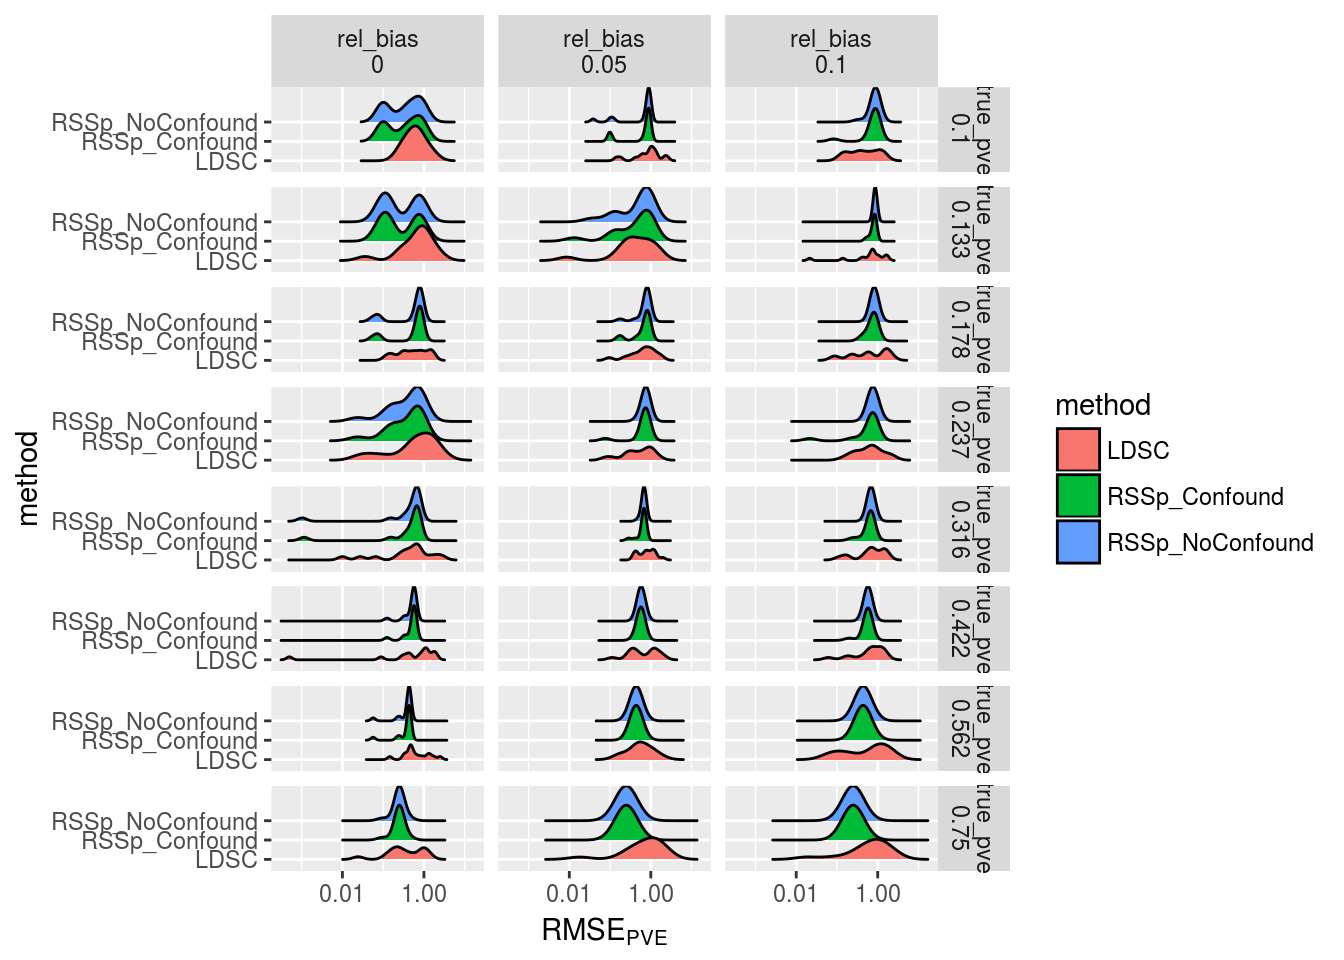
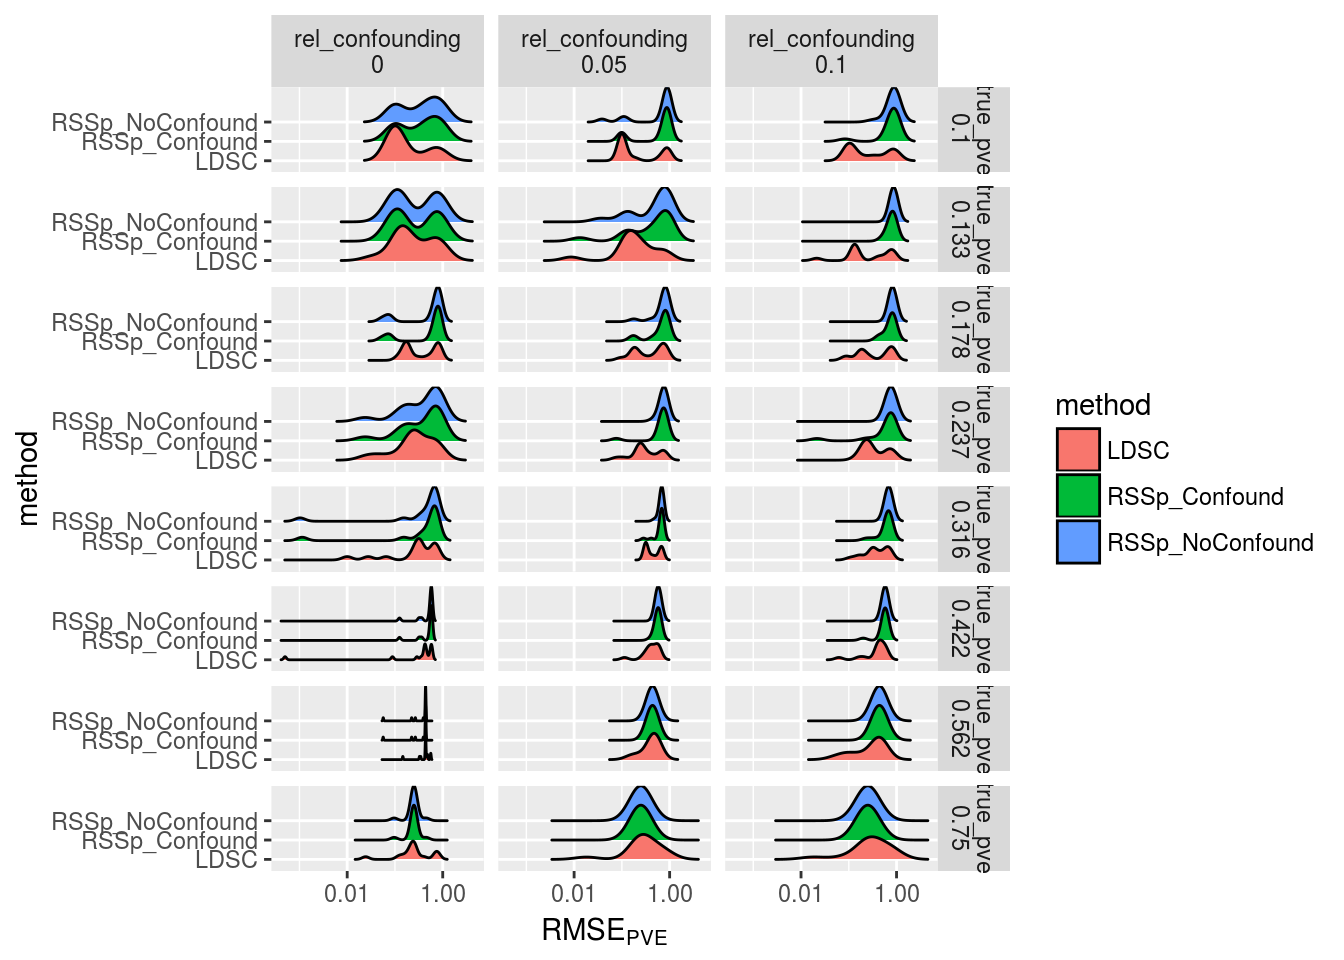
Build site.

diff --git a/docs/RSSp_ldsc_highPVE.html b/docs/RSSp_ldsc_highPVE.html
@@ -13,7 +13,7 @@
 
 <meta name="date" content="2017-11-08" />
 
-<title>RSSp vs ldsc</title>
+<title>RSSp vs ldsc (High PVE)</title>
 
 <script src="site_libs/jquery-1.11.3/jquery.min.js"></script>
 <meta name="viewport" content="width=device-width, initial-scale=1" />
@@ -304,7 +304,7 @@ div.tocify {
 
 
 
-<h1 class="title toc-ignore">RSSp vs ldsc</h1>
+<h1 class="title toc-ignore">RSSp vs ldsc (High PVE)</h1>
 <h4 class="author"><em>Nicholas Knoblauch</em></h4>
 <h4 class="date"><em>2017-11-08</em></h4>
 
@@ -318,18 +318,59 @@ shared across the workflowr files. -->
 <p><strong>Last updated:</strong> 2017-11-28</p>
 <!-- Insert the code version (Git commit SHA1) if Git repository exists and R
  package git2r is installed -->
-<p><strong>Code version:</strong> 46069fe</p>
+<p><strong>Code version:</strong> 9ba070a</p>
 <!-- Add your analysis here -->
+<div id="simulation" class="section level1">
+<h1>Simulation</h1>
+<div id="gwas-summary-stats" class="section level2">
+<h2>GWAS summary stats</h2>
+<p>The loci used in the simulation consisted of the 844500 SNPs that formed the intersection of</p>
+<p>Genotype data came from ~ 450 Europeans in 1kg (1 thousand genomes). <span class="math inline">\(\hat{\textbf{u}}\)</span> was simulated using the method <a href="simulation.html">outlined here</a>. <span class="math inline">\(PVE\)</span> took on 9 values between from <span class="math inline">\(0.09999\)</span> to <span class="math inline">\(0.9999\)</span>. Confounding was simulated as a proportion of total <span class="math inline">\(PVE\)</span>, and took on one of three values: <span class="math inline">\(0\)</span>,<span class="math inline">\(0.05\)</span>,<span class="math inline">\(0.1\)</span>. Each scenario was replicated 15 times.</p>
+</div>
+<div id="ld" class="section level2">
+<h2>LD</h2>
+<p><code>LDshrink</code> was used to estimate <span class="math inline">\(LD\)</span> for the same 450 individuals from 1kg. Haplotypes, rather than genotypes were used, and a genetic map was also used. pre-published <code>ldetect</code> breakpoints were used so that the LD matrix could be approximated as block-diagional (blocks are not of equal size)</p>
+</div>
+<div id="loci" class="section level2">
+<h2>Loci</h2>
+<p>Loci for this simulation were chosen by taking the intersection of: * Loci typed (or imputed) from the 1kg reference panel * Loci for which there was a genetic map value * Loci that fell within <code>ldetect</code> break points * Loci included in the LD score regression example GWAS data</p>
+<p>This ended up being <code>844501</code> SNPs in total.</p>
+<pre><code># A tibble: 27 x 3
+    True_PVE True_Confound Relative_Confounding
+       &lt;dbl&gt;         &lt;dbl&gt;                &lt;dbl&gt;
+ 1 0.0999900   0.000000000                 0.00
+ 2 0.0999900   0.004999500                 0.05
+ 3 0.0999900   0.009999000                 0.10
+ 4 0.1333388   0.000000000                 0.00
+ 5 0.1333388   0.006666940                 0.05
+ 6 0.1333388   0.013333881                 0.10
+ 7 0.1778102   0.000000000                 0.00
+ 8 0.1778102   0.008890508                 0.05
+ 9 0.1778102   0.017781016                 0.10
+10 0.2371137   0.000000000                 0.00
+# ... with 17 more rows</code></pre>
+</div>
+<div id="methods" class="section level2">
+<h2>Methods</h2>
+<ul>
+<li><code>RSSp</code> one parameter model. (No confounding parameter)</li>
+<li><code>RSSp</code> two paramter model.</li>
+<li>LD score regression (<code>LDSC</code>)</li>
+</ul>
+<p>The first result I want to highlight is just the relative performance of the three methods: <code>LDSC</code>, <code>RSSp</code> with a confounding parameter (<code>RSSp_Confound</code>), and <code>RSSp</code> without a confounding parameter (<code>RSSp_NoConfound</code>). “Performance” here means the RMSE of PVE <code>abs(pve-true_pve)</code> In these simulations there is no confounding. <strong>NB:</strong> Because <code>RSSp</code> bounds PVE between 0 and 1, <strong>I have bounded <code>LDSC</code> estimates between 0 and 1</strong> for the purpose of comparing RMSE between methods.</p>
 <p><img src="figure/RSSp_ldsc_highPVE.Rmd/rmse_pve-1.png" width="672" style="display: block; margin: auto;" /></p>
-<p><img src="figure/RSSp_ldsc_highPVE.Rmd/unnamed-chunk-1-1.png" width="672" style="display: block; margin: auto;" /></p>
+<p>Next we see the simulation results that had a confounding parameter. Here I’ve split up the results using the variable <code>rel_confounding</code>, which is the level of true confounding divided by the true <span class="math inline">\(PVE\)</span>. <img src="figure/RSSp_ldsc_highPVE.Rmd/unnamed-chunk-2-1.png" width="672" style="display: block; margin: auto;" /></p>
+<p>The next several plots show the same data as the box plots, (RMSE of PVE across methods,levels of counfounding, and true PVE), but are rearranged in several different ways, to make particular comparisons easier. (e.g how does the <code>RSSp_Confound</code> method perform as confounding increases at a given <code>PVE</code>). If it looks like RMSE is less than 0 or greater than one, that is simply an artifact of the plotting</p>
 <p><img src="figure/RSSp_ldsc_highPVE.Rmd/joy_bias_pve-1.png" width="672" style="display: block; margin: auto;" /> <img src="figure/RSSp_ldsc_highPVE.Rmd/joy_pve_bias-1.png" width="672" style="display: block; margin: auto;" /></p>
 <p><img src="figure/RSSp_ldsc_highPVE.Rmd/joy_bias_pve_rmse-1.png" width="672" style="display: block; margin: auto;" /></p>
+<p>This plot shows estimates of <span class="math inline">\(PVE\)</span> vs the true value, In this plot I have not truncated <span class="math inline">\(LDSC\)</span> between 0 and 1.</p>
 <p><img src="figure/RSSp_ldsc_highPVE.Rmd/pve_tpve-1.png" width="672" style="display: block; margin: auto;" /></p>
 <p><img src="figure/RSSp_ldsc_highPVE.Rmd/pve_tpve_bound-1.png" width="672" style="display: block; margin: auto;" /></p>
 <p><img src="figure/RSSp_ldsc_highPVE.Rmd/pve_tpve_bound_zoom-1.png" width="672" style="display: block; margin: auto;" /></p>
 <p><img src="figure/RSSp_ldsc_highPVE.Rmd/est_confound_method-1.png" width="672" style="display: block; margin: auto;" /></p>
-<p><img src="figure/RSSp_ldsc_highPVE.Rmd/unnamed-chunk-2-1.png" width="672" style="display: block; margin: auto;" /></p>
+<p><img src="figure/RSSp_ldsc_highPVE.Rmd/unnamed-chunk-3-1.png" width="672" style="display: block; margin: auto;" /></p>
 <p><img src="figure/RSSp_ldsc_highPVE.Rmd/est_pve_tpve_method-1.png" width="672" style="display: block; margin: auto;" /></p>
+</div>
 <div id="session-information" class="section level2">
 <h2>Session information</h2>
 <!-- Insert the session information into the document -->
@@ -374,6 +415,7 @@ loaded via a namespace (and not attached):
 [43] mnormt_1.5-5        colorspace_1.3-2    labeling_0.3       
 [46] stringi_1.1.5       lazyeval_0.2.1      munsell_0.4.3      
 [49] broom_0.4.2         RcppEigen_0.3.3.3.0</code></pre>
+</div>
 </div>
 
 <hr>
